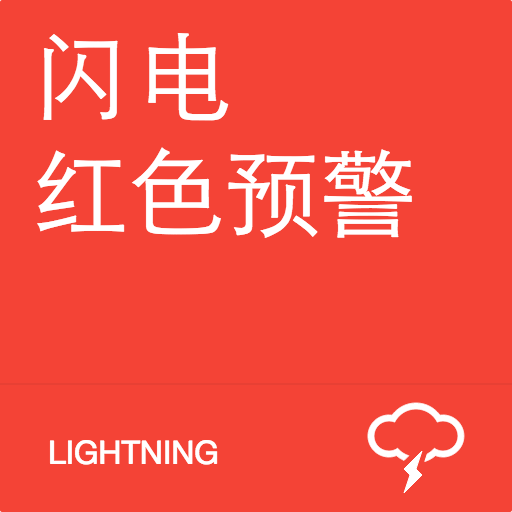
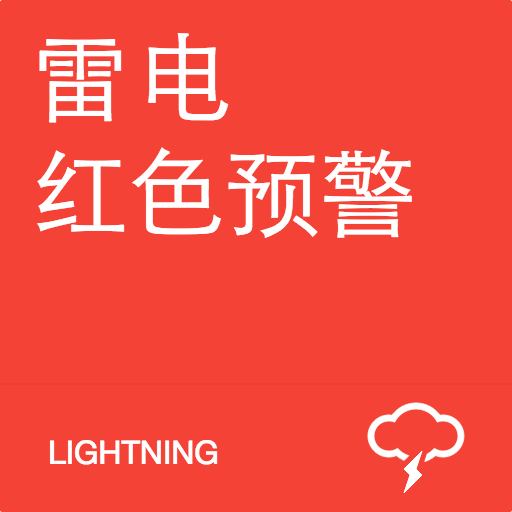
typo

Changed region(s): [[0.0625, 0.0625, 0.25, 0.25]]

diff --git a/README.md b/README.md
@@ -14,22 +14,41 @@ See http://www.cma.gov.cn/2011zwxx/2011zflfg/2011zgfxwj/201110/t20111027_134927.
 ![暴雪](https://raw.githubusercontent.com/shevawen/Emergent-Meteorological-Disaster-Warning-Sgnal-Icon/master/set1/png/SNOWSTORM_red.png)
 
 ## 寒潮
+
+![寒潮](https://raw.githubusercontent.com/shevawen/Emergent-Meteorological-Disaster-Warning-Sgnal-Icon/master/set1/png/COLDWAVE_red.png)
+
 ## 大风
-## 沙尘
+
+![大风](https://raw.githubusercontent.com/shevawen/Emergent-Meteorological-Disaster-Warning-Sgnal-Icon/master/set1/png/GALE_red.png)
+
+## 沙尘暴
+
+![沙尘暴](https://raw.githubusercontent.com/shevawen/Emergent-Meteorological-Disaster-Warning-Sgnal-Icon/master/set1/png/SANDSTORM_red.png)
+
 ## 高温
+
+![高温](https://raw.githubusercontent.com/shevawen/Emergent-Meteorological-Disaster-Warning-Sgnal-Icon/master/set1/png/HEATSTORM_red.png)
+
 ## 雷电
 
 ![雷电](https://raw.githubusercontent.com/shevawen/Emergent-Meteorological-Disaster-Warning-Sgnal-Icon/master/set1/png/LIGHTNING_red.png)
 
 ## 冰雹
-## 霜冻
+
+![冰雹](https://raw.githubusercontent.com/shevawen/Emergent-Meteorological-Disaster-Warning-Sgnal-Icon/master/set1/png/HAIL_red.png)
+
 ## 大雾
 
 ![大雾](https://raw.githubusercontent.com/shevawen/Emergent-Meteorological-Disaster-Warning-Sgnal-Icon/master/set1/png/HEAVYFOG_red.png)
 
-## 霾
 ## 道路结冰
+
+![道路结冰](https://raw.githubusercontent.com/shevawen/Emergent-Meteorological-Disaster-Warning-Sgnal-Icon/master/set1/png/ROADICING_red.png)
+
 ## 台风
+
+![台风](https://raw.githubusercontent.com/shevawen/Emergent-Meteorological-Disaster-Warning-Sgnal-Icon/master/set1/png/TYPHOON_red.png)
+
 
 包括一个 python 写的生成器，可以基于模板生成图标。
 
